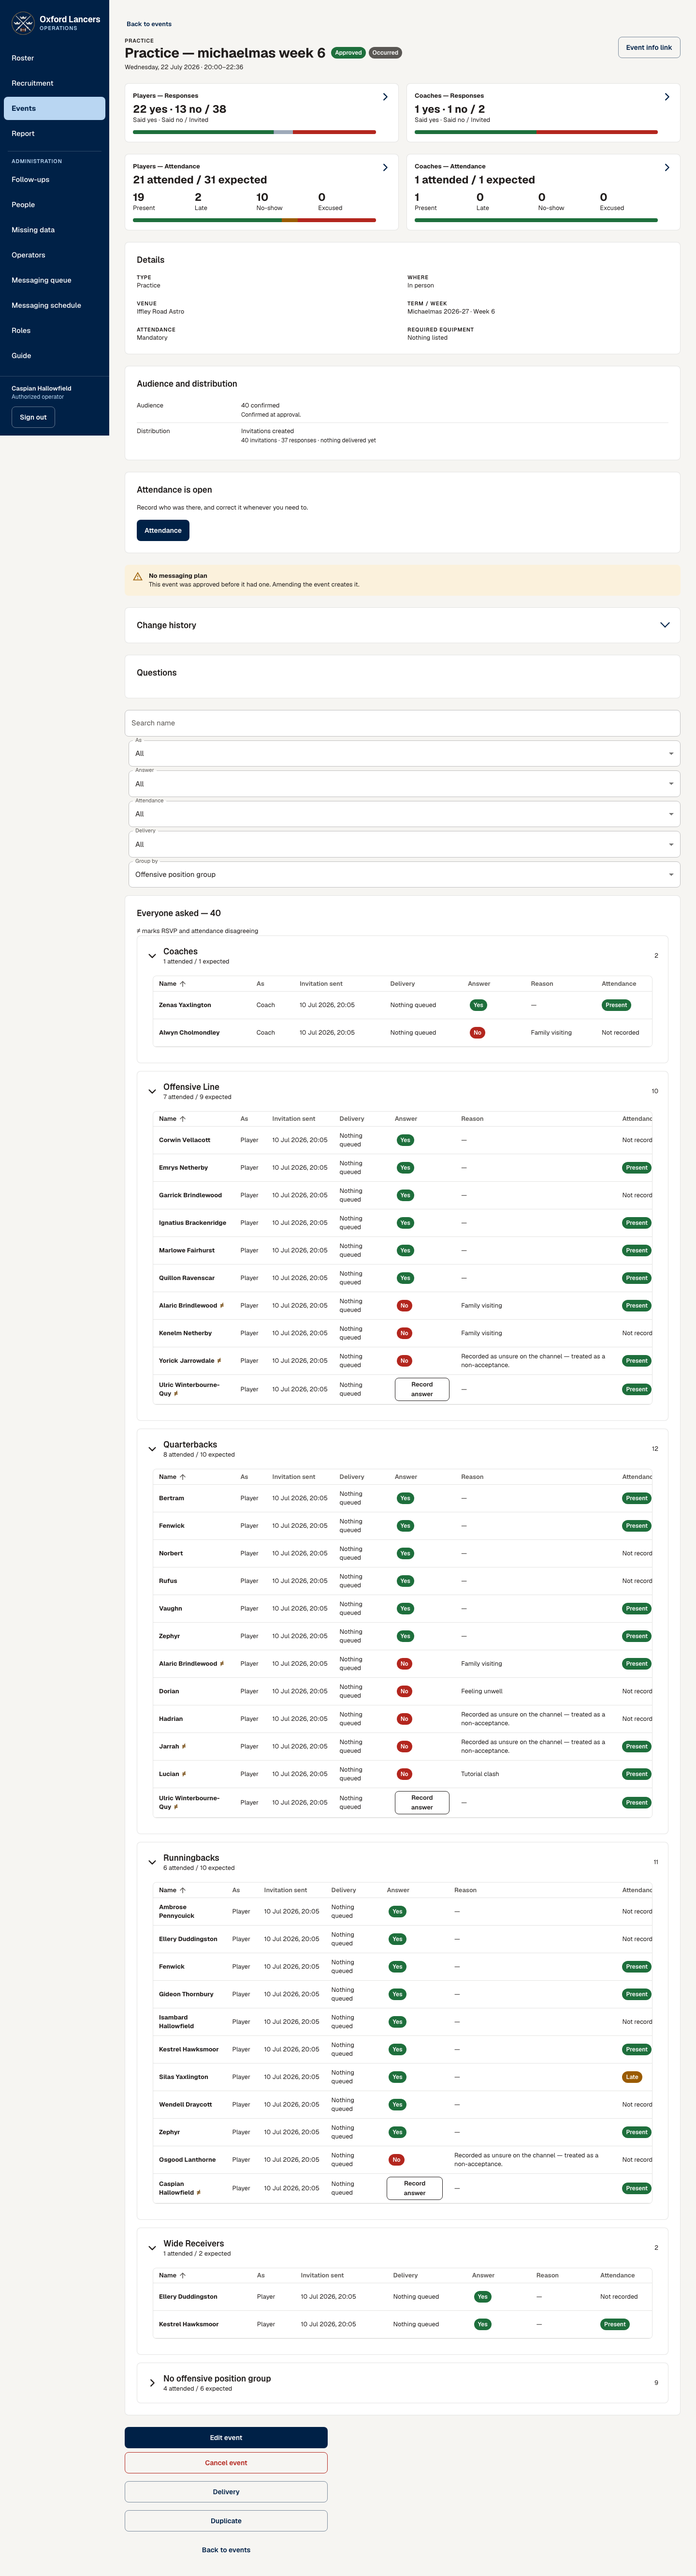
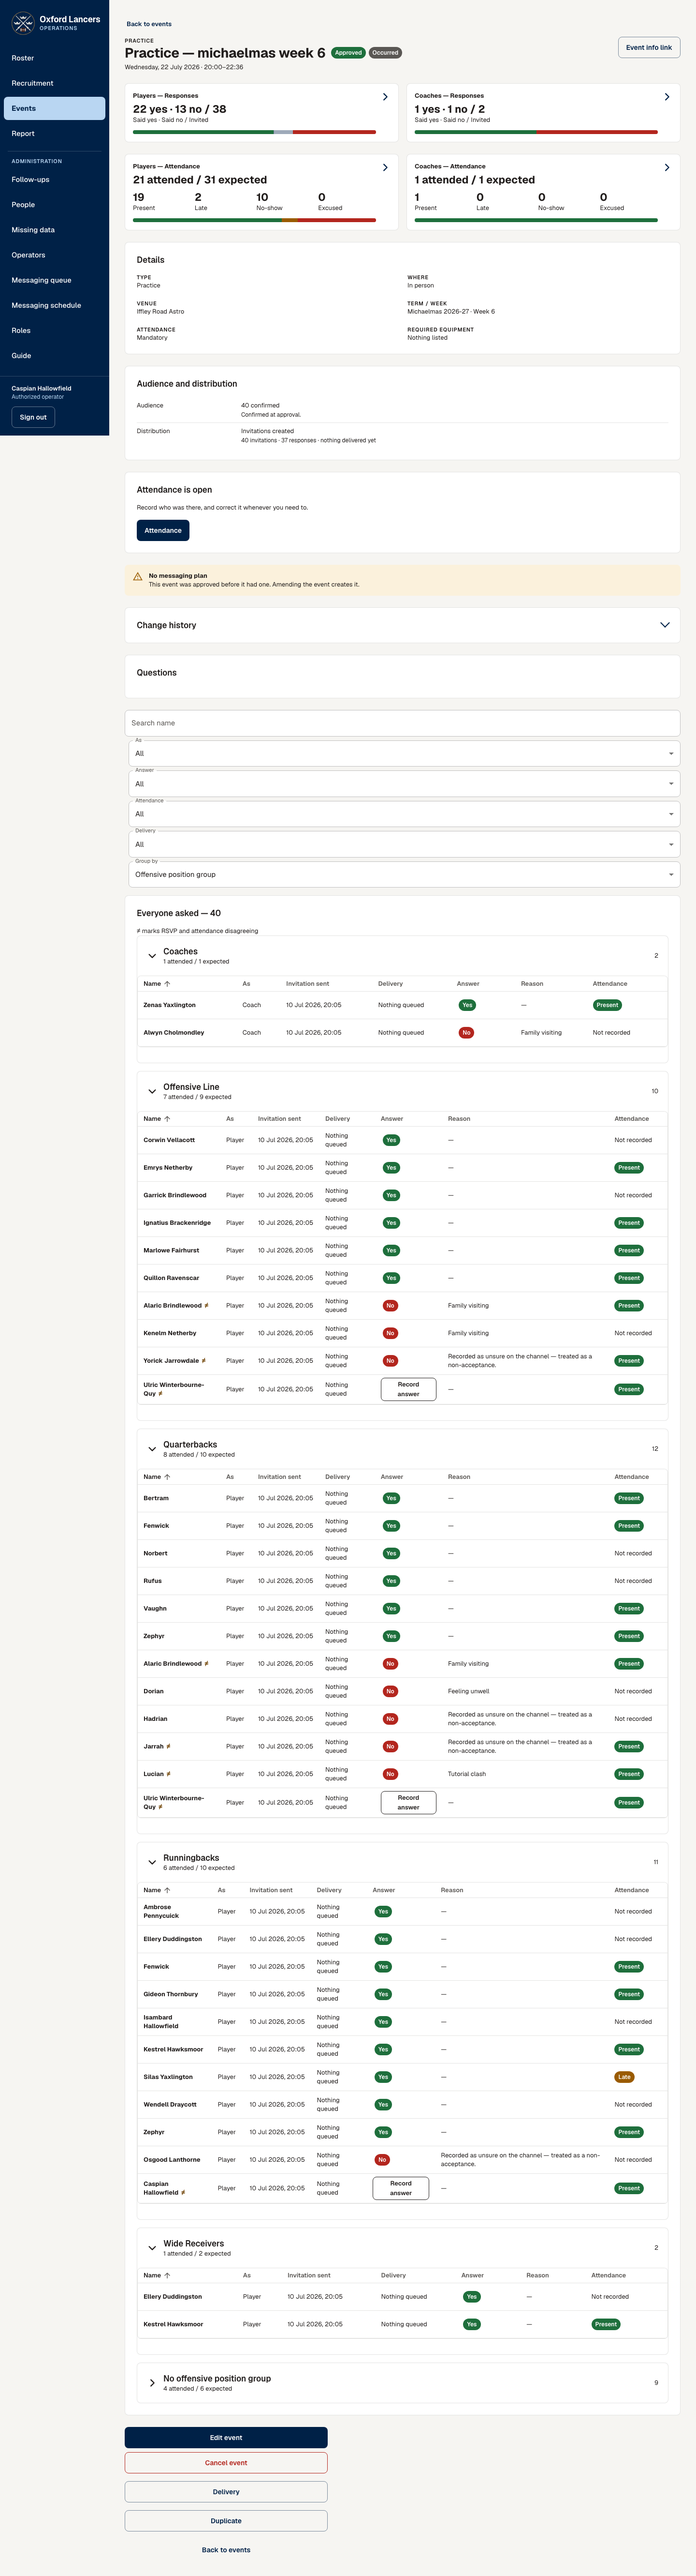
LAN-497: give the grouped Everyone asked table its full width
In grouped mode the section's desktop side padding narrowed the table
inside its horizontal scroll and clipped the Attendance column. The
controlled section takes an optional panelSx override; only the grouped
Everyone asked section passes it, so the register and every other user
keep the default padding. Screenshots retaken from a production build.

diff --git a/src/components/controlled-section.tsx b/src/components/controlled-section.tsx
@@ -5,6 +5,7 @@ import Box from "@mui/material/Box";
 import ButtonBase from "@mui/material/ButtonBase";
 import Collapse from "@mui/material/Collapse";
 import Paper from "@mui/material/Paper";
+import type { SxProps, Theme } from "@mui/material/styles";
 import Typography from "@mui/material/Typography";
 
 /**
@@ -22,6 +23,7 @@ export function ControlledSection({
   panelId,
   toggleTestId,
   countTestId,
+  panelSx,
   children,
 }: {
   title: string;
@@ -32,6 +34,8 @@ export function ControlledSection({
   panelId: string;
   toggleTestId?: string;
   countTestId?: string;
+  /** Overrides for the open panel's padding, where its content needs the section's full width. */
+  panelSx?: SxProps<Theme>;
   children: ReactNode;
 }) {
   return (
@@ -73,7 +77,13 @@ export function ControlledSection({
         ) : null}
       </ButtonBase>
       <Collapse in={open} unmountOnExit>
-        <Box id={panelId} sx={{ px: { xs: 2.5, md: 4 }, pb: { xs: 2.5, md: 4 } }}>
+        <Box
+          id={panelId}
+          sx={[
+            { px: { xs: 2.5, md: 4 }, pb: { xs: 2.5, md: 4 } },
+            ...(Array.isArray(panelSx) ? panelSx : panelSx ? [panelSx] : []),
+          ]}
+        >
           {children}
         </Box>
       </Collapse>

diff --git a/src/app/participation/participation-group-section.tsx b/src/app/participation/participation-group-section.tsx
@@ -36,6 +36,8 @@ export function ParticipationGroupSection({
         panelId={`participation-group-panel-${sectionKey}`}
         toggleTestId={`participation-group-toggle-${sectionKey}`}
         countTestId={`participation-group-count-${sectionKey}`}
+        // The table keeps the width it has ungrouped: the panel's desktop side padding would scroll its last column.
+        panelSx={{ px: { md: 0 } }}
       >
         {children}
       </ControlledSection>
